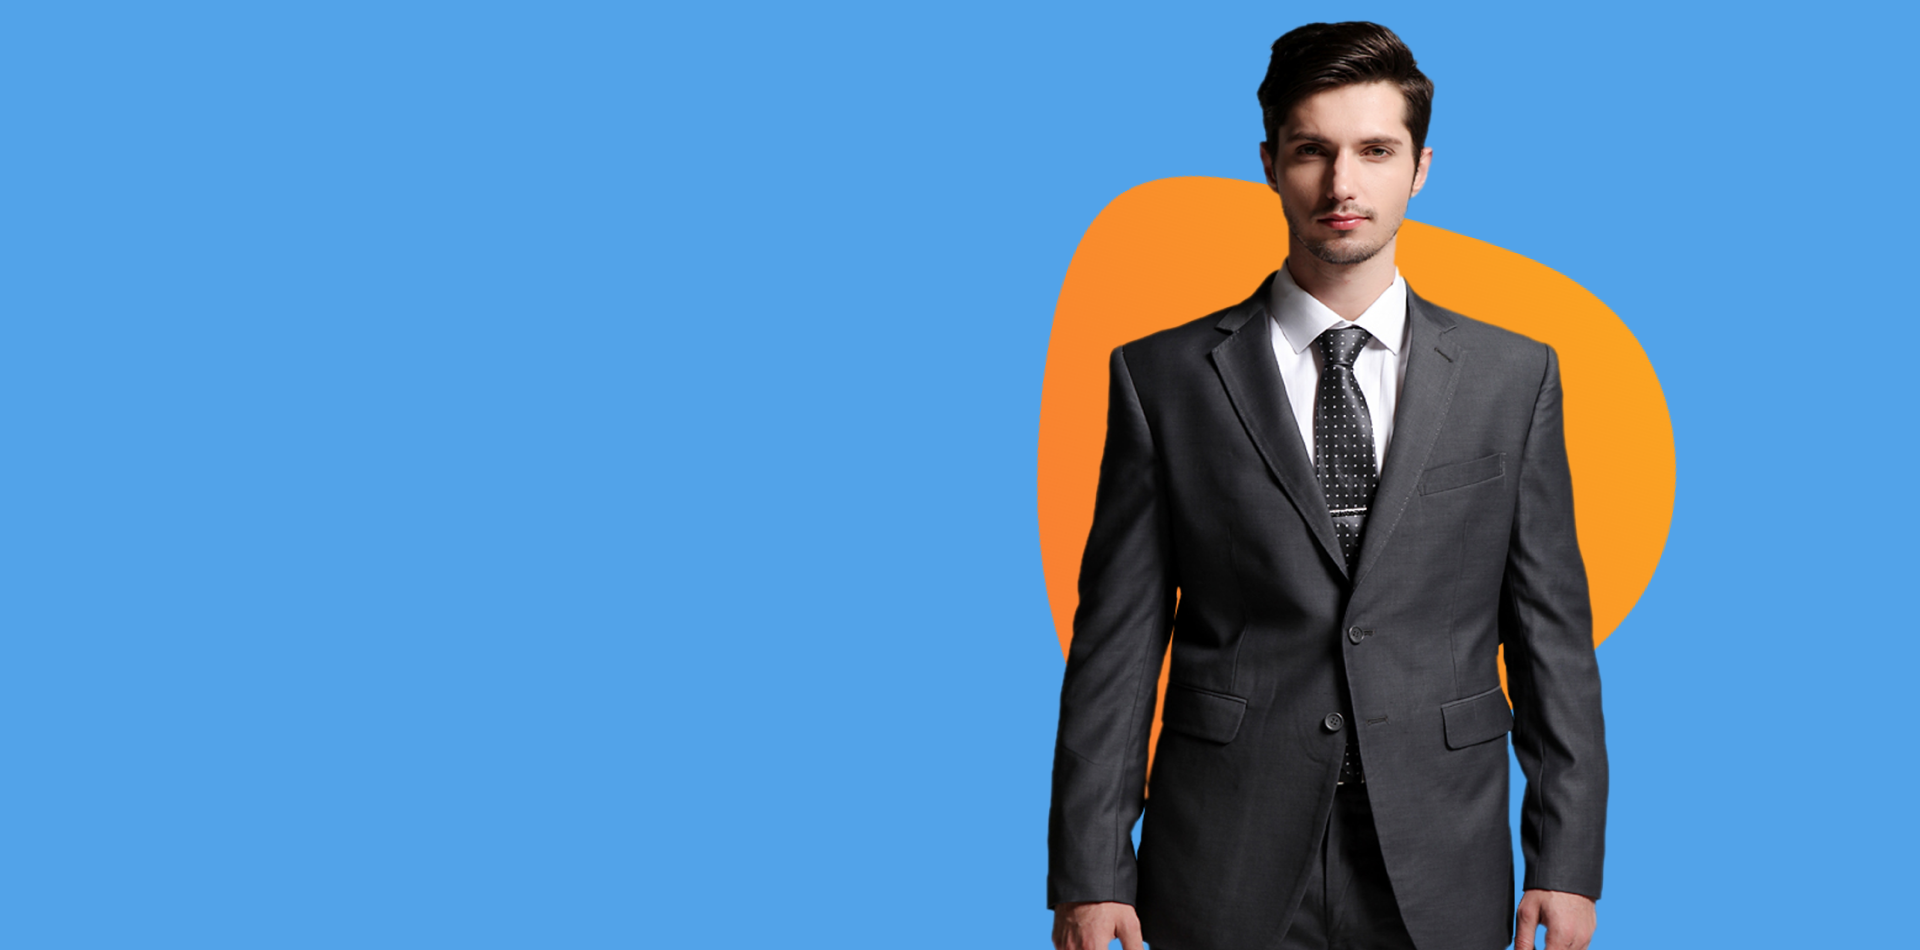
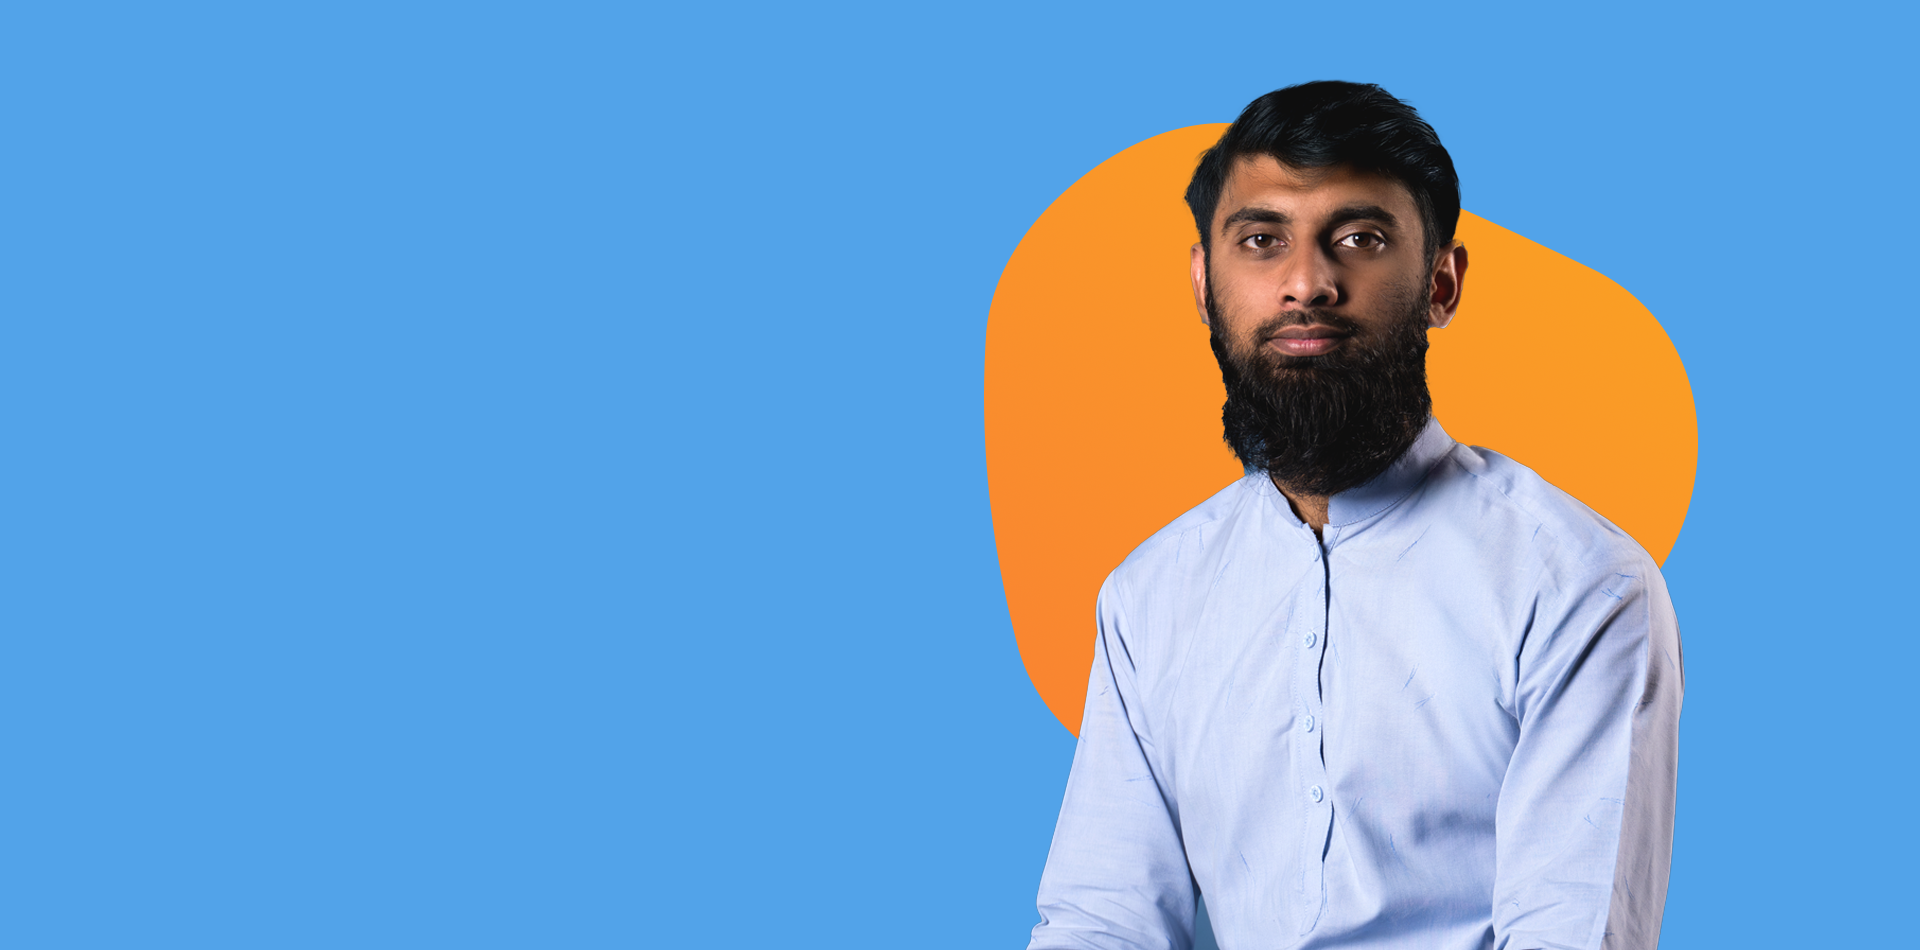
fix pictures

Changed region(s): [[0.5, 0.0, 0.9062, 1.0]]

diff --git a/src/components/RecentWorks.jsx b/src/components/RecentWorks.jsx
@@ -1,6 +1,6 @@
 import React from 'react'
 import '../css/recent-works.css';
-import {Swiper,SwiperSlide} from 'swiper/react'
+import { Swiper, SwiperSlide } from 'swiper/react'
 import 'swiper/css';
 import p1 from '../images/p1.png'
 import p2 from '../images/p2.png'
@@ -11,45 +11,44 @@ import p6 from '../images/p6.png'
 import p7 from '../images/p7.png'
 
 const RecentWorks = () => {
+  // Array of portfolio items, each with an image, link, title, and description
+  const portfolioItems = [
+    { img: p1, link: "https://your-link1.com", title: "Project 1", description: "A brief description of Project 1" },
+    { img: p2, link: "https://your-link2.com", title: "Project 2", description: "A brief description of Project 2" },
+    { img: p3, link: "https://your-link3.com", title: "Project 3", description: "A brief description of Project 3" },
+    { img: p4, link: "https://your-link4.com", title: "Project 4", description: "A brief description of Project 4" },
+    { img: p5, link: "https://your-link5.com", title: "Project 5", description: "A brief description of Project 5" },
+    { img: p6, link: "https://your-link6.com", title: "Project 6", description: "A brief description of Project 6" },
+    { img: p7, link: "https://your-link7.com", title: "Project 7", description: "A brief description of Project 7" },
+  ];
+
   return (
     <>
-        <div className="container works">
-            <div className="heading">
-                <span>Recent Works</span>
-                <span>Portfolio</span>
-            </div>
-            <Swiper 
-            spaceBetween={10}
-            slidesPerView={3}
-            grabCursor={true}
-            >
-                <SwiperSlide>
-                    <img src={p1} alt="" />
-                </SwiperSlide>
-                <SwiperSlide>
-                    <img src={p2} alt="" />
-                </SwiperSlide>
-                <SwiperSlide>
-                    <img src={p3} alt="" />
-                </SwiperSlide>
-                <SwiperSlide>
-                    <img src={p4} alt="" />
-                </SwiperSlide>
-                <SwiperSlide>
-                    <img src={p5} alt="" />
-                </SwiperSlide>
-                <SwiperSlide>
-                    <img src={p6} alt="" />
-                </SwiperSlide>
-                <SwiperSlide>
-                    <img src={p7} alt="" />
-                </SwiperSlide>
-
-            </Swiper>
-
+      <div className="container works">
+        <div className="heading">
+          <span>Recent Works</span>
+          <span>Portfolio</span>
         </div>
+        <Swiper
+          spaceBetween={10}
+          slidesPerView={3}
+          grabCursor={true}
+        >
+          {portfolioItems.map((item, index) => (
+            <SwiperSlide key={index}>
+              <a href={item.link} target="_blank" rel="noopener noreferrer" className="portfolio-item">
+                <img src={item.img} alt={item.title} />
+                <div className="overlay">
+                  <h3>{item.title}</h3>
+                  <p>{item.description}</p>
+                </div>
+              </a>
+            </SwiperSlide>
+          ))}
+        </Swiper>
+      </div>
     </>
   )
 }
 
-export default RecentWorks
+export default RecentWorks;

diff --git a/src/components/Footer.jsx b/src/components/Footer.jsx
@@ -19,13 +19,13 @@ const Footer = () => {
           <div className="row d-flex justify-content-center">
             <div className="col-md-6 text-center">
               <h1 className='mb-3'>ABOUT ME</h1>
-              <h6>
+              <p className='description'>
                 I’m Osama Ehsaan, a passionate Full Stack Developer and DevOps Engineer. I specialize in developing scalable web applications using cutting-edge technologies such as React, Node.js, and Cloud services (Kubernetes, Docker, AWS).
                 <br />
                 With a keen eye for detail and a strong drive for continuous improvement, I strive to create seamless user experiences and optimize backend architectures. I’m always eager to learn, grow, and take on new challenges in the tech space.
                 <br />
                 When I’m not coding, I enjoy exploring new design tools like Figma and experimenting with creative ways to improve my workflow.
-              </h6>
+              </p>
               <div className="socials mt-4 justify-content-center">
                 <span>
                   <a href="https://github.com/OsamaCodes62" target="_blank" rel="noopener noreferrer">

diff --git a/src/css/recent-works.css b/src/css/recent-works.css
@@ -1,3 +1,56 @@
+.portfolio-item {
+  position: relative;
+  display: inline-block;
+  overflow: hidden;
+  border-radius: 1.2rem; /* Add rounded corners */
+}
+
+.portfolio-item img {
+  width: 100%;
+  height: auto;
+  transition: transform 0.3s ease;
+  border-radius: 1.2rem; /* Ensures the image has the same rounded corners */
+}
+
+.portfolio-item:hover img {
+  transform: scale(1.05); /* Optional zoom effect on hover */
+}
+
+.overlay {
+  position: absolute;
+  top: 0;
+  left: 0;
+  width: 100%;
+  height: 100%;
+  background: rgba(0, 0, 0, 0.6); /* Semi-transparent overlay */
+  color: #fff;
+  display: flex;
+  flex-direction: column;
+  justify-content: center;
+  align-items: center;
+  opacity: 0;
+  transition: opacity 0.3s ease;
+  border-radius: 1.2rem; /* Rounded corners for the overlay */
+}
+
+.portfolio-item:hover .overlay {
+  opacity: 1; /* Show overlay on hover */
+}
+
+.overlay h3 {
+  margin: 0;
+  font-size: 1.2rem;
+}
+
+.overlay p {
+  font-size: 0.9rem;
+  text-align: center;
+  padding: 0 1rem;
+}
+
+  
+
+
 .works{
     margin-top: 5rem;
     margin-bottom: 5rem;

diff --git a/src/css/footer.css b/src/css/footer.css
@@ -16,6 +16,16 @@
     width: 100%;
 }
 
+.footer .description {
+    font-size: 1rem;
+    max-width: 50rem; /* Set max-width for controlled wrapping */
+    margin: 0 auto; /* Center-align text */
+    text-align: justify; /* Justify for consistent line spacing */
+    line-height: 1.5; /* Improve readability */
+    white-space: pre-line; /* Enables respect for added line breaks */
+}
+
+
 @media screen and (max-width:768px) {
     .footer-inner{
         margin-top: 2rem;

diff --git a/src/components/Skills.jsx b/src/components/Skills.jsx
@@ -1,5 +1,5 @@
 import React from 'react';
-import profile from '../images/men.jpg';
+import profile from '../images/profile.png';
 import '../css/skills.css';
 
 const Skills = () => {
